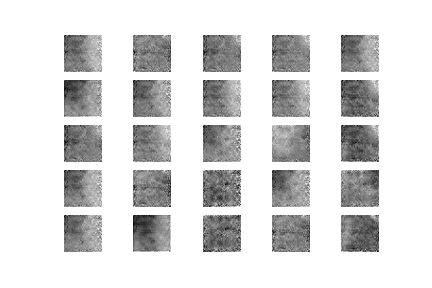
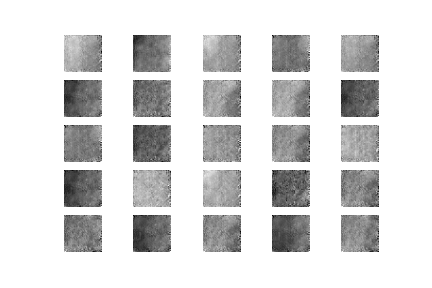
gan_poly

diff --git a/README.md b/README.md
@@ -48,7 +48,7 @@ The dataset _polydata.npy_ can be downloaded [here](https://drive.google.com/dri
 ### Autoencoder-MNIST
 Implementation of a simple _Autoencoder_ for the MNIST data and an autoencoder that can _classify_ data in its latent dimension is built as well.
 
-#### Models 
+#### Model 
 
 The design implemented here uses an architecture in which a _bottleneck_ in the network is imposed
 It forces a compressed knowledge representation of the original input data.
@@ -78,7 +78,7 @@ $ ipython AE.ipynb
 Implementation of _Variational Autoencoder_ with factorized gaussian posteriors, <img src="https://render.githubusercontent.com/render/math?math=q_{\phi}(z|x ) = \mathcal{N}(z, \mu(x),diag(\sigma^{2}))"> and standard normal latent variables <img src="https://render.githubusercontent.com/render/math?math=p(z) =\mathcal{N}(0, I)">
 The variational autoencoder able to _classify_ data in its data is built as well.
 
-#### Models
+#### Model
 In contrast with the _Standard Autoencoder_, the final part of the *encoder* structure bottleneck has two Dense layers: `self.encoded_mean` and `self.encoded_var`.
 In this case, it is needed two-dimensional mean and variance as well.
 These two layers are used for the _sampling trick implementation_, which help us to impose multi-gaussian distribution on the latent space.  
@@ -115,7 +115,7 @@ $ ipython VAE.ipynb
 ### DCGAN-MNIST
 Implementation of _Deep Convolutional Generative Adversarial Network_ with a custom training loop that aims at generating MNIST samples. 
 
-#### Models
+#### Model
 A GAN's *discriminator* is simply a classifier. It attempts to distinguish between actual data in the dataset and data created by the generator.
 A GAN's *generator* learns to create fake data by incorporating feedback from the discriminator. It learns to make the discriminator classify its output as real.
 
@@ -133,7 +133,8 @@ For every training batch we calculate generator and discriminator loss and store
 
 
 #### Results 
-Below the generated images over 500 epochs embedded in a _gif_ is shown as well as the generator and discriminator losses stored during the training process.
+Below the generated images over 500 epochs embedded in a _gif_ is shown as well as the generator and discriminator training losses stored during the training process.
+From the plot below we can see how changes in loss decrease gradually and that loss becomes almost constant towards the end of training.
 
 
 <p align="center">
@@ -151,18 +152,25 @@ $ ipython DCGAN_mnist.ipynb
 <img src="./GANs_using_Polynomials/images/DCGAN/dcgan_poly.gif" align="right" width="150" height="auto"/>
 
 ### DCGAN-Polynomial
-Implementation of _Deep Convolutional Generative Adversarial Network_.
+Implementation of _Deep Convolutional Generative Adversarial Network_ with a custom training loop that aims at generating Polynomial data samples.
 
 #### Model
+Different implementation of the same DCGAN Model as before. 
+In this case the *generator* and *discriminator* model are tailored on a different dataset with different image size.
+The main difference with the previous implementation is the custom training function.
+In fact, in this implementation we loop the training step over the epochs and the losses are computed through the in-built function `model.train_on_batch` of the _models_ previously defined. 
 
 
 #### Results
+Below the generated images after 1000 epochs and original dataset are shown.
+The generator and discriminator training losses stored during the training process are plot as well.
+For this latter plot, we can see that no proper equilibrium between losses is reached, due to the great fluctuation in the values.
+This result suggests that the implementation needs to be improved.
 
 <p align="center">
  <img src="./GANs_using_Polynomials/images/DCGAN/generated.png" width="1000" />   <img src="./GANs_using_Polynomials/images/DCGAN/original.png" width="1000" /> 
                                                          
 </p>
-
 
 
 <p align="center">
